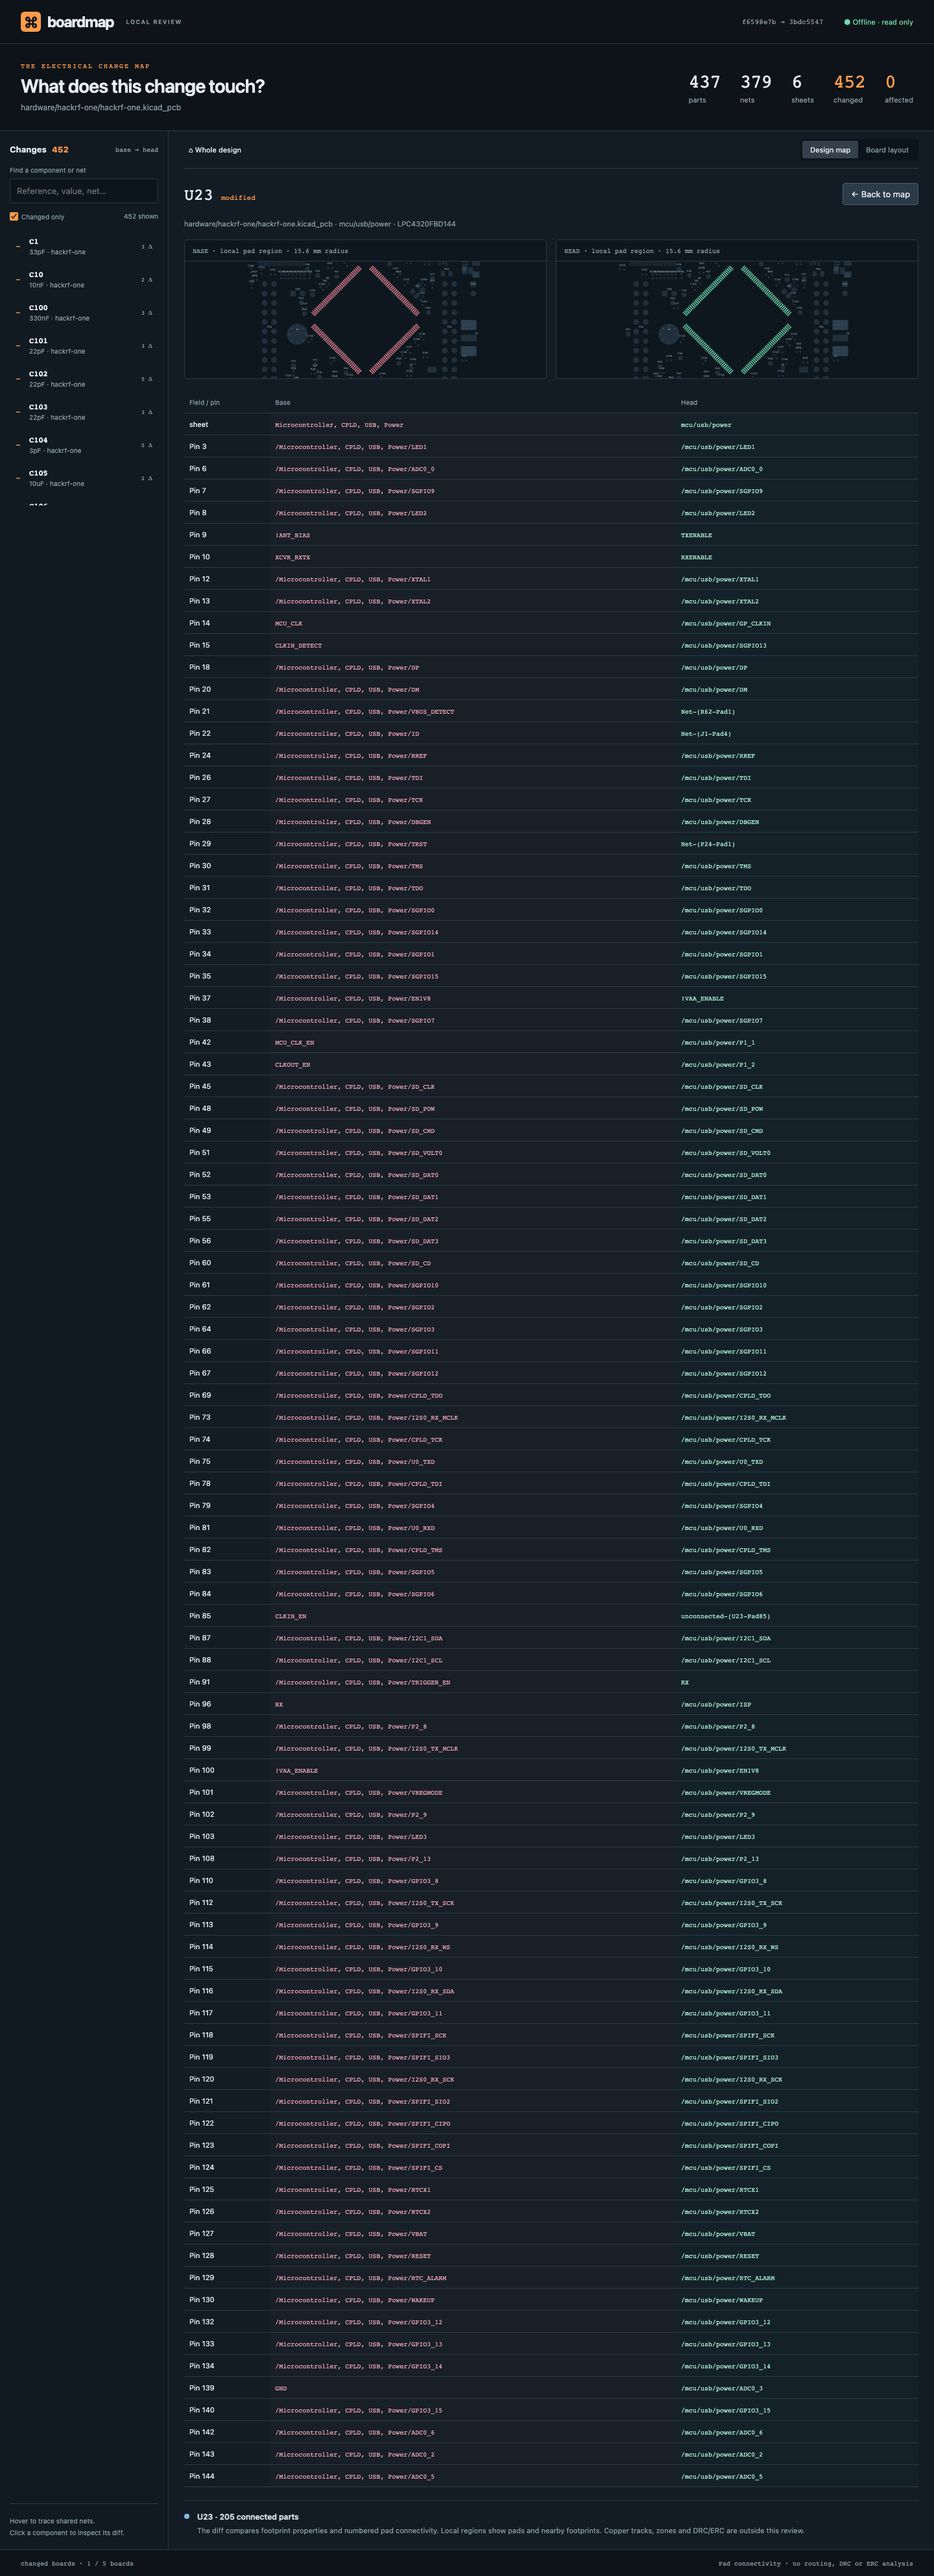
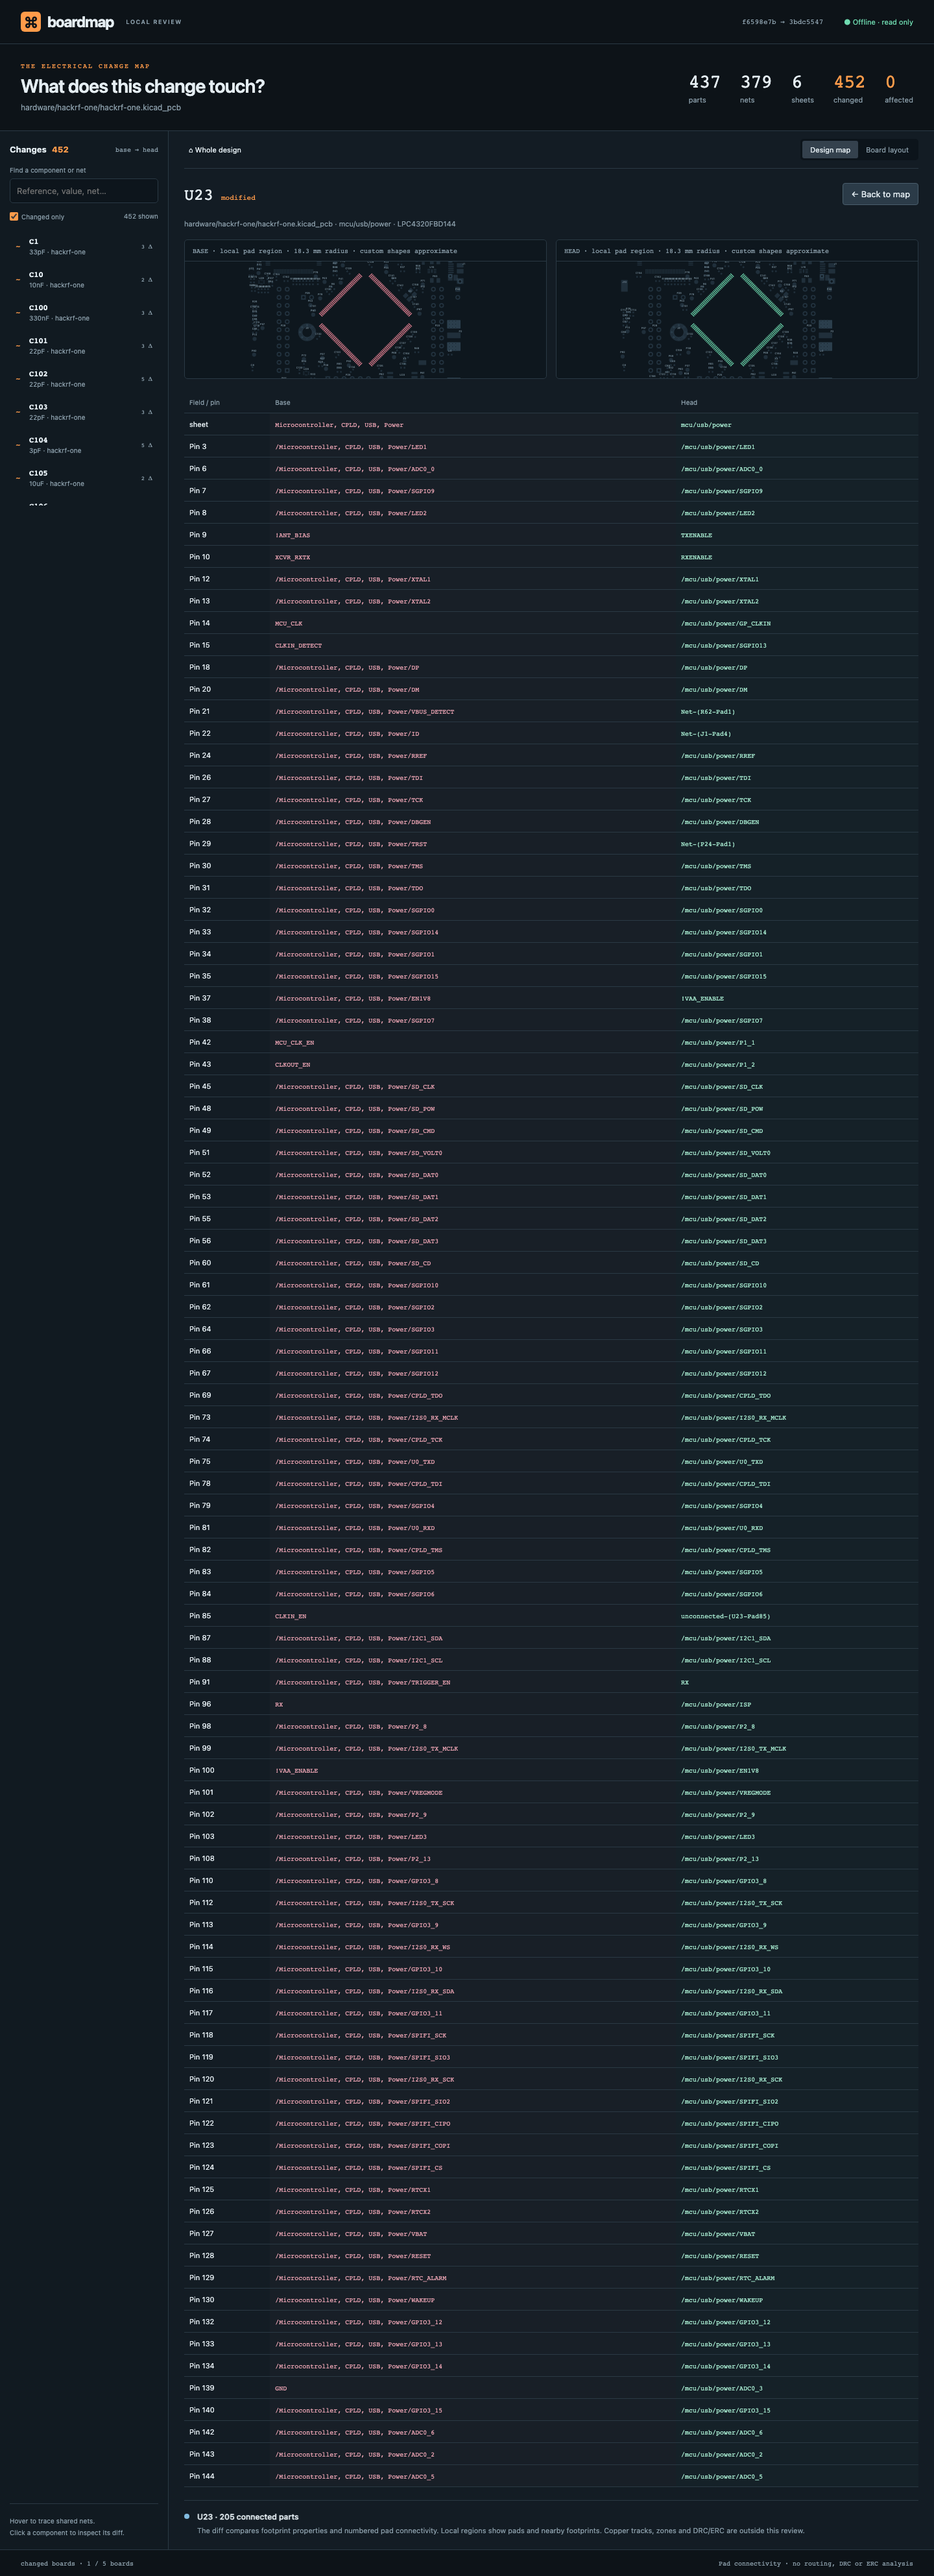
Show rotated pad and drill changes and preserve review navigation

Changed region(s): [[0.6562, 0.0937, 0.9062, 0.1562], [0.2812, 0.0937, 0.5312, 0.1562]]

diff --git a/web/style.css b/web/style.css
@@ -1,3 +1,3 @@
 :root{color-scheme:dark;--bg:#0d1318;--panel:#131c24;--tile:#24333f;--text:#e4edf2;--muted:#8a9da9;--border:#2a3944;--orange:#ff9b4a;--green:#6fdbb0;--red:#e98496;--blue:#82bbdf;font-family:-apple-system,BlinkMacSystemFont,"Segoe UI",sans-serif;font-size:13px}*{box-sizing:border-box}body{margin:0;background:var(--bg);color:var(--text)}button,input,select{font:inherit}button{cursor:pointer;color:inherit;background:none;border:0}a{color:inherit;text-decoration:none}button:focus-visible,a:focus-visible,input:focus-visible,select:focus-visible{outline:2px solid var(--blue);outline-offset:3px}header{height:68px;padding:0 32px;border-bottom:1px solid var(--border);display:flex;align-items:center;gap:32px}.brand{font-size:23px;font-weight:720;letter-spacing:-1px;display:flex;align-items:center;gap:10px}.brand-mark{display:inline-grid;place-items:center;background:var(--orange);color:var(--bg);width:31px;height:31px;font-size:24px;border-radius:6px}.edition{font-size:9px;letter-spacing:1.4px;color:var(--muted);font-weight:600;margin-left:9px}.mono{font-family:ui-monospace,SFMono-Regular,Consolas,monospace}#revision{color:var(--muted);font-size:11px;margin-left:auto}.offline{color:var(--green);font-size:11px}.overview{display:flex;align-items:center;justify-content:space-between;padding:27px 32px 28px;gap:24px}.eyebrow{font:10px ui-monospace,SFMono-Regular,monospace;color:var(--orange);letter-spacing:2px}h1{font-size:29px;letter-spacing:-.8px;margin:8px 0 9px;font-weight:600}.overview p{color:var(--muted);margin:0;font-size:12px;overflow-wrap:anywhere}#stats{display:flex;gap:30px}#stats strong{display:block;font:29px ui-monospace,SFMono-Regular,monospace;letter-spacing:-1px}#stats span{display:block;font-size:11px;color:var(--muted);margin-top:5px}#stats .accent strong{color:var(--orange)}.workspace{display:grid;grid-template-columns:260px minmax(0,1fr);border-block:1px solid var(--border);min-height:610px}aside{border-right:1px solid var(--border);background:#111a21;padding:20px 15px 0;display:flex;flex-direction:column;min-height:0}.aside-heading{display:flex;justify-content:space-between;align-items:center;margin-bottom:18px}.aside-heading h2{font-size:13px;margin:0}.aside-heading h2 span{color:var(--orange);margin-left:5px}.aside-heading>span{font-size:10px;color:var(--muted)}.search-label{font-size:10px;color:var(--muted);margin-bottom:7px}input[type=search]{width:100%;border:1px solid var(--border);border-radius:5px;background:#0d151c;color:var(--text);padding:10px}.filters{display:flex;justify-content:space-between;font-size:10px;color:var(--muted);margin:14px 0}.filters label,.map-settings label{display:flex;align-items:center;gap:5px}input[type=checkbox]{accent-color:var(--orange);margin:0}#part-list{overflow-y:auto;max-height:425px;flex:1;min-height:190px}.part-row{width:100%;text-align:left;display:flex;align-items:center;gap:9px;border-radius:4px;padding:10px 8px;border:1px solid transparent}.part-row:hover,.part-row:focus-visible,.part-row.selected{background:#25313b;border-color:#48545e}.status-mark{font:13px ui-monospace,monospace;width:12px;color:var(--orange)}.part-row.added .status-mark{color:var(--green)}.part-row.removed .status-mark{color:var(--red)}.part-row.removed strong{text-decoration:line-through}.part-meta{display:flex;flex-direction:column;gap:3px;min-width:0}.part-meta strong{font:12px ui-monospace,monospace;font-weight:650}.part-meta small{font-size:10px;white-space:nowrap;overflow:hidden;text-overflow:ellipsis;color:var(--muted);max-width:153px}.change-fields{font:9px ui-monospace,monospace;color:var(--muted);margin-left:auto}.aside-foot{margin-top:auto;padding:17px 0;color:var(--muted);line-height:1.8;font-size:10px;border-top:1px solid var(--border)}main{min-width:0;padding:0 24px;background:var(--panel)}.toolbar{min-height:58px;display:flex;align-items:center;justify-content:space-between;gap:10px;border-bottom:1px solid var(--border)}#breadcrumbs{display:flex;align-items:center;flex-wrap:wrap;gap:4px;color:var(--muted);font-size:11px}#breadcrumbs button{padding:7px;color:var(--text);max-width:230px;overflow:hidden;text-overflow:ellipsis;white-space:nowrap}#breadcrumbs button:hover{color:var(--orange)}.view-tabs{display:flex;background:#0c141b;padding:3px;border-radius:5px;flex-shrink:0}.view-tabs button{font-size:11px;color:var(--muted);padding:7px 12px;border-radius:3px}.view-tabs button.active{background:#34414d;color:var(--text)}.map-settings{display:flex;align-items:center;gap:20px;padding:15px 0;font-size:10px;color:var(--muted)}select{background:#1c2b36;border:1px solid var(--border);border-radius:4px;padding:5px;color:var(--text);font-size:10px}#scope-count{margin-left:auto}#canvas{position:relative;height:430px;border:1px solid #354651;border-radius:6px;overflow:hidden;background:#0e171e}#tiles,#connections{position:absolute;inset:0;width:100%;height:100%}#connections{pointer-events:none;z-index:3;overflow:visible}.group{position:absolute;border:1px solid #41505a;background:#15232e;border-radius:4px;overflow:hidden}.group-title{position:absolute;left:0;top:0;width:100%;height:28px;text-align:left;padding:0 10px;font:10px ui-monospace,monospace;color:#bacbd5;display:flex;align-items:center;justify-content:space-between;gap:12px;background:#1b2c38;z-index:2}.group-title span:first-child{overflow:hidden;text-overflow:ellipsis;white-space:nowrap}.group-title:hover{color:var(--orange);background:#29404f}.group-title small{font:9px ui-monospace,monospace;white-space:nowrap}.tile{position:absolute;background:var(--tile);border:1px solid #364957;border-radius:3px;overflow:hidden;text-align:left;padding:6px;color:#9eafb9;transition:opacity .12s,background .12s}.tile.modified{background:#533c2b;border-color:#ce864c;color:#ffcfaa}.tile.added{background:#21453f;border-color:#63ac92;color:#a6e8d1}.tile.removed{background:repeating-linear-gradient(135deg,#362c36,#362c36 6px,#302832 6px,#302832 12px);border:1px dashed #c27589;color:#e5a7b7}.tile.removed .ref{text-decoration:line-through}.tile .ref{display:block;font:600 12px ui-monospace,SFMono-Regular,monospace;white-space:nowrap}.tile .value{display:block;font-size:10px;margin-top:4px;white-space:nowrap;overflow:hidden;text-overflow:ellipsis}.tile .pin-count{position:absolute;bottom:5px;right:6px;font:9px ui-monospace,monospace;opacity:.65}.tile.hovered{background:#b26531!important;border:2px solid #ffbb7b;color:#fff;z-index:2;box-shadow:0 0 18px #ff9b4a30}.tile.affected{background:#2d4b62;border-color:var(--blue);color:#d6ebfa}.tile.dimmed{opacity:.27}.legend{display:flex;align-items:center;gap:16px;font-size:10px;color:var(--muted);padding:13px 0;flex-wrap:wrap}.legend>span{display:flex;align-items:center;gap:6px}.legend i{display:block;width:7px;height:7px;border-radius:2px}.legend .modified{background:var(--orange)}.legend .added{background:var(--green)}.legend .removed{background:var(--red)}.legend .unchanged{background:#607381}.legend-note{margin-left:auto;font-size:9px}#impact{display:flex;gap:12px;padding:16px 0 20px;border-top:1px solid var(--border);min-height:76px}.impact-dot{width:8px;height:8px;border-radius:50%;background:var(--blue);margin-top:4px;flex-shrink:0}#impact strong{font-size:12px;font-weight:550}#impact p{margin:6px 0 0;color:var(--muted);font-size:11px;line-height:1.5;overflow-wrap:anywhere}footer{display:flex;justify-content:space-between;gap:20px;padding:14px 32px;color:var(--muted);font:10px ui-monospace,monospace}.diff-header{display:flex;align-items:center;justify-content:space-between;padding:22px 0}.diff-header h2{font:25px ui-monospace,monospace;margin:0}.diff-header small{color:var(--orange);font:11px ui-monospace,monospace;margin-left:12px}.close-diff{background:#2b3b48;border:1px solid #4a5e6c;padding:8px 12px;border-radius:4px}.diff-subtitle{color:var(--muted);font-size:11px;margin:0 0 18px;overflow-wrap:anywhere}.regions{display:grid;grid-template-columns:1fr 1fr;gap:14px}.region{margin:0;background:#0e171e;border:1px solid var(--border);border-radius:5px;overflow:hidden}.region figcaption{padding:10px 12px;border-bottom:1px solid var(--border);font:10px ui-monospace,monospace;color:var(--muted)}.region svg{display:block;width:100%;height:180px}.semantic{width:100%;border-collapse:collapse;font-size:11px;margin:20px 0}.semantic th{text-align:left;color:var(--muted);font-weight:400;font-size:10px}.semantic td,.semantic th{border-bottom:1px solid var(--border);padding:10px 8px;vertical-align:top;overflow-wrap:anywhere;max-width:300px}.semantic td:nth-child(2){color:#e9a3b2;background:#e9849607}.semantic td:nth-child(3){color:#a2e3ca;background:#6fdbb007}.semantic code{white-space:pre-wrap;font:10px ui-monospace,monospace}.empty{padding:30px 12px;color:var(--muted);font-size:12px}#map-empty{position:absolute;top:45%;width:100%;text-align:center;color:var(--muted)}[hidden]{display:none!important}.board-dot{border-radius:3px}.board-dot .ref{font-size:9px}.board-note{position:absolute;bottom:6px;left:10px;font-size:9px;color:var(--muted);pointer-events:none}@media(min-width:1700px){#canvas{height:540px}#part-list{max-height:535px}}@media(max-width:1000px){.overview{align-items:flex-start}#stats{gap:16px}#stats strong{font-size:23px}.edition{display:none}.workspace{grid-template-columns:215px minmax(0,1fr)}main{padding:0 14px}.map-settings{gap:10px;flex-wrap:wrap}.legend-note{display:none}.part-meta small{max-width:120px}header{padding:0 20px}h1{font-size:23px}.overview{padding:24px 20px}.offline{display:none}}@media(max-width:700px){.overview{display:block}#stats{justify-content:space-between;margin-top:24px}.workspace{display:flex;flex-direction:column}aside{border-right:0;border-bottom:1px solid var(--border);padding:14px}#part-list{max-height:150px;min-height:0;display:grid;grid-template-columns:1fr 1fr}.aside-foot{display:none}.aside-heading{margin-bottom:10px}.filters{margin:10px 0}.toolbar{align-items:flex-start;padding:9px 0;flex-wrap:wrap}.map-settings{font-size:9px}#scope-count{width:100%;margin:0}#canvas{height:440px}.legend{gap:10px}header{gap:10px;height:55px}.brand{font-size:20px}#revision{font-size:9px}.regions{grid-template-columns:1fr}.semantic td,.semantic th{padding:8px 4px;font-size:10px}footer{padding:12px 16px;flex-direction:column;gap:7px}.part-meta small{max-width:115px}}@media(prefers-reduced-motion:reduce){*{transition:none!important;scroll-behavior:auto!important}}
 
-.board-chooser{padding:24px;color:var(--muted)}.board-chooser button{display:block;text-align:left;overflow-wrap:anywhere;border:1px solid var(--border);border-radius:5px;padding:13px;margin:10px 0;color:var(--text);background:var(--tile)}.board-chooser button:hover{border-color:var(--orange)}
+.board-chooser{height:100%;overflow-y:auto;padding:24px;color:var(--muted)}.board-chooser button{display:block;text-align:left;overflow-wrap:anywhere;border:1px solid var(--border);border-radius:5px;padding:13px;margin:10px 0;color:var(--text);background:var(--tile)}.board-chooser button:hover{border-color:var(--orange)}

diff --git a/web/app.js b/web/app.js
@@ -164,9 +164,14 @@ function openDiff(p) {
   const close=el('button','← Back to map','close-diff');close.onclick=closeDiff;head.append(title,close);
   panel.append(head,el('p',`${p.file} · ${p.sheet} · ${p.value || p.footprint}`,'diff-subtitle'));
   const regions=el('div',undefined,'regions');
-  const extent=Math.max(8,...[p.before,p.after].filter(Boolean).flatMap(part=>part.pads.map(pad=>Math.max(Math.abs(pad.x)+pad.w,Math.abs(pad.y)+pad.h))))*1.25;
+  const extent=Math.max(8,...[p.before,p.after].filter(Boolean).flatMap(part=>part.pads.map(pad=>{
+    const pos=padPosition(part,pad),angle=pad.angle*Math.PI/180;
+    const rx=(Math.abs(pad.w*Math.cos(angle))+Math.abs(pad.h*Math.sin(angle)))/2;
+    const ry=(Math.abs(pad.w*Math.sin(angle))+Math.abs(pad.h*Math.cos(angle)))/2;
+    return Math.max(Math.abs(pos.x)+rx,Math.abs(pos.y)+ry);
+  })))*1.25;
   for (const key of ['before','after']) {
-    const figure=el('figure',undefined,'region'); figure.append(el('figcaption',`${key==='before'?'BASE':'HEAD'} · local pad region · ${extent.toFixed(1)} mm radius`));
+    const figure=el('figure',undefined,'region'); figure.append(el('figcaption',`${key==='before'?'BASE':'HEAD'} · local pad region · ${extent.toFixed(1)} mm radius · custom shapes approximate`));
     figure.append(regionSvg(p,key,extent));regions.append(figure);
   }
   panel.append(regions);
@@ -189,7 +194,11 @@ function openDiff(p) {
   panel.append(table); impact(`${p.ref} · ${reach(report,p.id,state).ids.length} connected parts`, 'The diff compares footprint properties and numbered pad connectivity. Local regions show pads and nearby footprints. Copper tracks, zones and DRC/ERC are outside this review.');
   close.focus();
 }
-function closeDiff() {const id=state.selected;state.selected=null;$('diff-panel').hidden=true;$('map-panel').hidden=false;renderMap();resetImpact();const row=[...$('part-list').children].find(n=>n.dataset.id===id);row?.focus();}
+function closeDiff() {const id=state.selected;state.selected=null;$('diff-panel').hidden=true;$('map-panel').hidden=false;renderMap();resetImpact();const target=[...$('tiles').querySelectorAll('.tile'),...$('part-list').children].find(n=>n.dataset.id===id);(target ?? $('map-tab')).focus();}
+function padPosition(part,pad) {
+  const angle=part.angle*Math.PI/180;
+  return {x:pad.x*Math.cos(angle)+pad.y*Math.sin(angle),y:-pad.x*Math.sin(angle)+pad.y*Math.cos(angle)};
+}
 function regionSvg(selected,key,extent) {
   const svg=svgEl('svg',{viewBox:`${-extent} ${-extent} ${extent*2} ${extent*2}`,role:'img','aria-label':`${key} pad region for ${selected.ref}`});
   const anchor=selected[key];
@@ -198,11 +207,17 @@ function regionSvg(selected,key,extent) {
     const part=p[key]; if (!part || part.file!==anchor.file) continue;
     const dx=part.x-anchor.x,dy=part.y-anchor.y;
     if (Math.abs(dx)>extent*2 || Math.abs(dy)>extent*2) continue;
-    const angle=part.angle*Math.PI/180;
     for (const pad of part.pads) {
-      const x=dx+pad.x*Math.cos(angle)+pad.y*Math.sin(angle),y=dy-pad.x*Math.sin(angle)+pad.y*Math.cos(angle);
+      const pos=padPosition(part,pad),x=dx+pos.x,y=dy+pos.y;
       const color=p.id===selected.id?(key==='before'?'#e98496':'#6fdbb0'):'#3d5666';
-      const rect=svgEl('rect',{x:x-pad.w/2,y:y-pad.h/2,width:pad.w,height:pad.h,rx:pad.shape==='circle'?Math.min(pad.w,pad.h)/2:.12,fill:color,opacity:p.id===selected.id?.9:.4,transform:`rotate(${-pad.angle} ${x} ${y})`});svg.append(rect);
+      const rect=svgEl('rect',{x:x-pad.w/2,y:y-pad.h/2,width:pad.w,height:pad.h,rx:['circle','oval'].includes(pad.shape)?Math.min(pad.w,pad.h)/2:.12,fill:color,opacity:p.id===selected.id?.9:.4,transform:`rotate(${-pad.angle} ${x} ${y})`});svg.append(rect);
+      if (pad.drill?.length) {
+        const oval=pad.drill[0]==='oval',dw=Number(pad.drill[oval?1:0]),dh=oval?Number(pad.drill[2]):dw;
+        const offset=pad.drill.find(n=>Array.isArray(n) && n[0]==='offset') ?? [];
+        if (dw>0 && dh>0) {
+          const hole=svgEl('rect',{x:x-dw/2+Number(offset[1] ?? 0),y:y-dh/2+Number(offset[2] ?? 0),width:dw,height:dh,rx:Math.min(dw,dh)/2,fill:'#0e171e',stroke:color,'stroke-width':.08,transform:`rotate(${-pad.angle} ${x} ${y})`,'data-drill':pad.number});svg.append(hole);
+        }
+      }
       if (p.id===selected.id && pad.number) {const text=svgEl('text',{x,y:y+.17,'text-anchor':'middle',fill:'#0d171e','font-size':Math.min(.65,pad.h*.65)});text.textContent=pad.number;svg.append(text);}
     }
     if (p.id!==selected.id) {const label=svgEl('text',{x:dx,y:dy-1,fill:'#7c929f','font-size':extent/24,'text-anchor':'middle'});label.textContent=p.ref;svg.append(label);}
